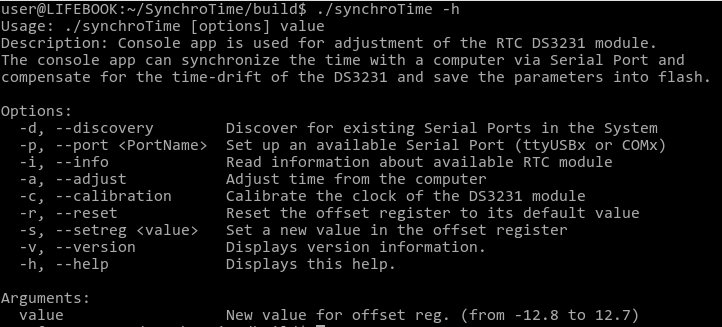
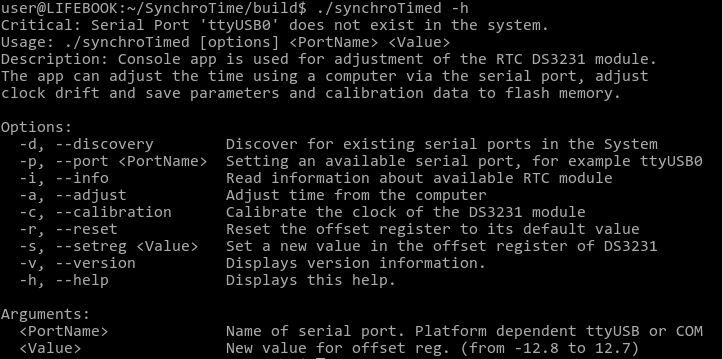
Added a new function handleSetRegisterRequest()

diff --git a/SynchroTimeCon/helper.cpp b/SynchroTimeCon/helper.cpp
@@ -51,21 +51,22 @@ void setCommandLineParser( QCommandLineParser &parser )
 {
 #ifndef GUI_APP
     parser.setApplicationDescription( "Description: Console app is used for adjustment of the RTC DS3231 module.\n"
-                                      "The console app can synchronize the time with a computer via Serial Port and \n"
-                                      "compensate for the time-drift of the DS3231 and save the parameters into flash." );
+                                      "The app can adjust the time using a computer via the serial port, adjust\n"
+                                      "clock drift and save parameters and calibration data to flash memory." );
 #endif
 
-    parser.addPositionalArgument( "value", QCoreApplication::translate( "main", "New value for offset reg. (from -12.8 to 12.7)" ) );
+    parser.addPositionalArgument( "<PortName>", QCoreApplication::translate( "main", "Name of serial port. Platform dependent ttyUSB or COM" ) );
+    parser.addPositionalArgument( "<Value>", QCoreApplication::translate( "main", "New value for offset reg. (from -12.8 to 12.7)" ) );
 
 #ifndef GUI_APP
     QCommandLineOption discovery( QStringList() << DISCOVERY << "discovery",
-                                       QCoreApplication::translate( "main", "Discover for existing Serial Ports in the System" ),
+                                       QCoreApplication::translate( "main", "Discover for existing serial ports in the System" ),
                                        QCoreApplication::translate( "main", "" ), "0" );
     parser.addOption( discovery );
 #endif
 
     QCommandLineOption portName( QStringList() << PORT << "port",
-                                       QCoreApplication::translate( "main", "Set up an available Serial Port (ttyUSBx or COMx)" ),
+                                       QCoreApplication::translate( "main", "Setting an available serial port, for example ttyUSB0" ),
                                        QCoreApplication::translate( "main", "PortName" ), "1" );
     parser.addOption( portName );
 
@@ -92,8 +93,8 @@ void setCommandLineParser( QCommandLineParser &parser )
     parser.addOption( reset );
 
     QCommandLineOption setregister( QStringList() << SETREG << "setreg",
-                                       QCoreApplication::translate( "main", "Set a new value in the offset register" ),
-                                       QCoreApplication::translate( "main", "value"), "1" );
+                                       QCoreApplication::translate( "main", "Set a new value in the offset register of DS3231" ),
+                                       QCoreApplication::translate( "main", "Value"), "1" );
     parser.addOption( setregister );
 
 #ifndef GUI_APP
@@ -111,6 +112,9 @@ void setCommandLineParser( QCommandLineParser &parser )
 //! Reset using the Reset protocol of the form: {@r}, 2 bytes long.
 //!
 //! \param[in] Pointer to the current session.
+//!
+//! \retval 0
+//! \retval 1
 // ------------------------------------------------------------------------
 int handleResetRequest( Session *const session )
 {
@@ -160,6 +164,9 @@ int handleResetRequest( Session *const session )
 //!
 //! \param[in] Pointer to the current session.
 //!
+//! \retval 0
+//! \retval 1
+// ------------------------------------------------------------------------
 int handleInformationRequest(Session * const session)
 {
     Q_ASSERT( session != nullptr );
@@ -192,7 +199,7 @@ int handleInformationRequest(Session * const session)
     session->getInterface()->closeSocket();
 
     // Check of the Received request
-    if ( !session->getInterface()->getReceivedData().isEmpty() )
+    if ( !session->getInterface()->getReceivedData().isEmpty() && blength > 4 )
     {
         qint64 numberOfMSec = 0LL;
         quint16 numberOfSec = 0U;
@@ -233,6 +240,9 @@ int handleInformationRequest(Session * const session)
 //!
 //! \param[in] Pointer to the current session.
 //!
+//! \retval 0
+//! \retval 1
+// ------------------------------------------------------------------------
 int handleAdjustmentRequest( Session * const session )
 {
     Q_ASSERT( session != nullptr );
@@ -296,6 +306,9 @@ int handleAdjustmentRequest( Session * const session )
 //!
 //! \param[in] Pointer to the current session.
 //!
+//! \retval 0
+//! \retval 1
+// ------------------------------------------------------------------------
 int handleCalibrationRequest( Session * const session )
 {
     Q_ASSERT( session != nullptr );
@@ -368,8 +381,12 @@ int handleCalibrationRequest( Session * const session )
 //! The function creates a connection to the device and sends a request for
 //! SetRegister using the SetRegister protocol of the form: {@s|value}, 2+4 bytes long.
 //!
-//! \param[in] Pointer to the current session.
+//! \param[in] session Pointer to the current session.
+//! \param[in] value
 //!
+//! \retval 0
+//! \retval 1
+// ------------------------------------------------------------------------
 int handleSetRegisterRequest( Session * const session, const float value )
 {
     Q_ASSERT( session != nullptr );

diff --git a/SynchroTimeCon/main.cpp b/SynchroTimeCon/main.cpp
@@ -272,6 +272,33 @@ int main(int argc, char *argv[])
             handleResetRequest( session );
         }
     }
+
+    // ------------------------------------------------------------------------
+    // command line option set register: -s
+    // ------------------------------------------------------------------------
+    else if ( parser.isSet( SETREG ) )
+    {
+
+        if ( args.count() > 0 )
+        {
+            qFatal( QObject::tr( "Invalid arguments '%s'" ).toLocal8Bit(), qPrintable( args.at(0) ) );
+        }
+
+        bool ok;
+        // Read new value for offset register
+        float value = parser.value( SETREG ).toFloat( &ok );
+        if ( !ok )
+        {
+            qFatal( QObject::tr( "Invalid argument '%s'" ).toLocal8Bit(), qPrintable( parser.value( SETREG ) ) );
+        }
+
+        Q_ASSERT( session != nullptr );
+        if ( session != nullptr )
+        {
+            handleSetRegisterRequest( session, value );
+        }
+    }
+
     // Release the memory
     session->deleteLater();
     QTimer::singleShot( 0, &app, SLOT( quit() ) );
